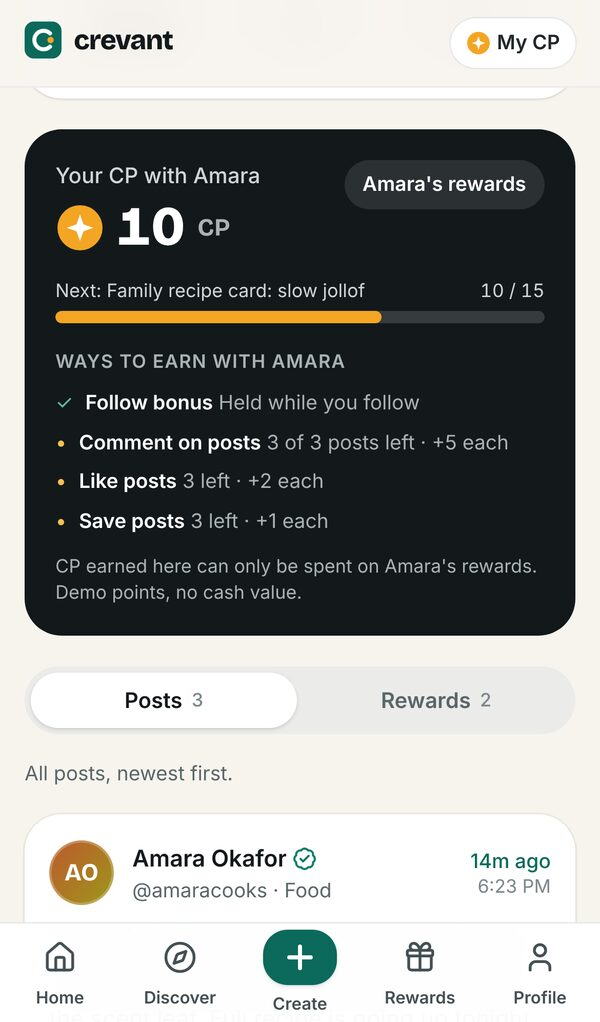
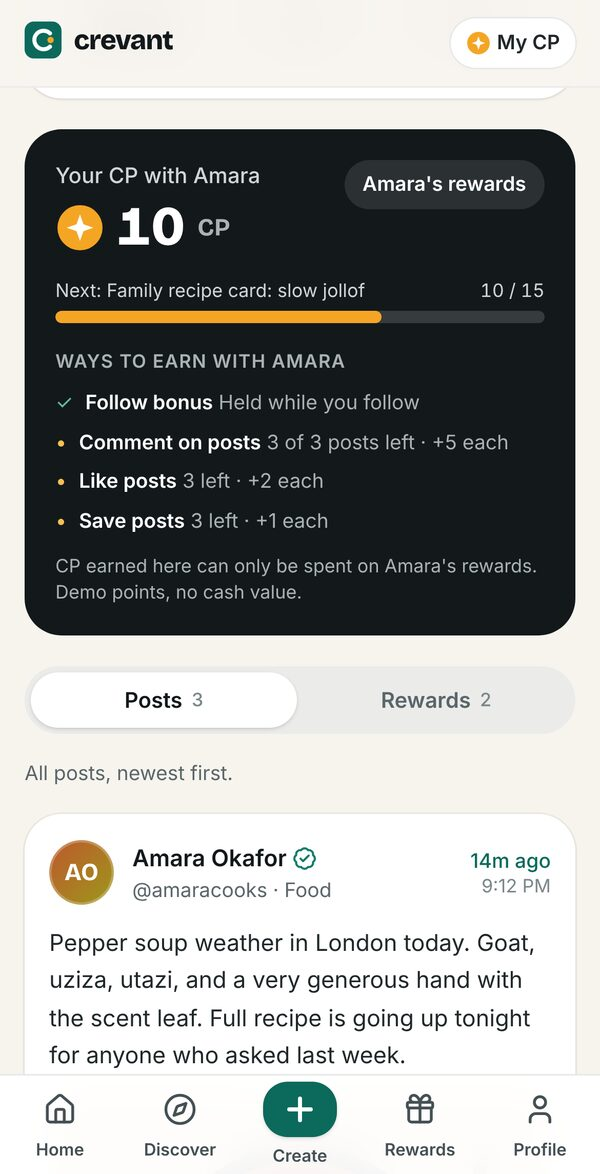
Landing page: realistic phone mockups for the tour screenshots
Replaces the plain dark frames with realistic, modern phones drawn in
code: a slim metal edge, side buttons, a black bezel, rounded screen
corners, a camera cut-out, a status bar and a home indicator area. Every
part scales with the phone's width (container units), so it looks the
same on desktop and mobile.

The screens are still genuine screenshots of the sample-data tour,
recaptured at a real phone's proportions: the app's 390 x 763 points
between a 47-point status bar and a 34-point home indicator area, so
the screen fills the device without stretching or cropping. Captions
still say "From the Crevant tour, with sample data."

The colour glow behind the hero phone is softened. No copy, section
structure or behaviour changes.

Claude-Session: https://claude.ai/code/session_01CUaEFqiBbRqT7dfbKvVRCe

diff --git a/src/public/landing/shared.tsx b/src/public/landing/shared.tsx
@@ -61,24 +61,56 @@ export function Section({
 
 export const cardShadow = 'shadow-[0_1px_2px_rgb(19_25_27/0.06),0_0_0_1px_rgb(19_25_27/0.05)]'
 
+// Genuine screenshots of the sample-data tour, captured at a real phone's
+// proportions (the 390 x 763 points between a 47-point status bar and a
+// 34-point home indicator area) by
+// scripts/landing/capture-tour-screens.cjs. statusBg matches the top of each
+// screen, so the status bar reads as part of the app.
 export const TOUR_SCREENS = {
   feed: {
     src: '/media/landing/tour-following-feed.jpg',
+    statusBg: '#fff7ea',
     alt: 'The Following feed in the Crevant sample tour: posts from three followed people, newest first, with a note saying there is no ranking.',
   },
   creator: {
     src: '/media/landing/tour-creator-page.jpg',
+    statusBg: '#f6f3ee',
     alt: "A creator page in the Crevant sample tour, showing 10 Connection Points with that creator and the ways to earn more. The card notes they are demo points with no cash value.",
   },
   rewards: {
     src: '/media/landing/tour-rewards.jpg',
+    statusBg: '#f7f4ef',
     alt: 'The rewards page in the Crevant sample tour: a reward from one creator, unlocked with points earned with that creator, marked as a simulated reward.',
   },
 } as const
 
+/** Status bar icons, sized relative to the phone's width. */
+function StatusIcons() {
+  return (
+    <span aria-hidden="true" className="flex items-center gap-[1.6cqw] text-ink-900">
+      <svg viewBox="0 0 18 12" className="h-[2.9cqw] w-auto" fill="currentColor">
+        <rect x="0" y="8" width="3" height="4" rx="0.8" />
+        <rect x="5" y="5.5" width="3" height="6.5" rx="0.8" />
+        <rect x="10" y="3" width="3" height="9" rx="0.8" />
+        <rect x="15" y="0" width="3" height="12" rx="0.8" />
+      </svg>
+      <svg viewBox="0 0 16 12" className="h-[2.9cqw] w-auto" fill="currentColor">
+        <path d="M8 2.4c2.3 0 4.4.9 6 2.4l1.3-1.4A10.4 10.4 0 0 0 8 .4C5.2.4 2.6 1.5.7 3.4L2 4.8a8.4 8.4 0 0 1 6-2.4Zm0 3.8c1.3 0 2.5.5 3.4 1.3l1.3-1.4A6.8 6.8 0 0 0 8 4.2c-1.8 0-3.4.7-4.7 1.9l1.3 1.4C5.5 6.7 6.7 6.2 8 6.2Zm0 3.6c.4 0 .8.2 1.1.4L8 11.6 6.9 10.2c.3-.2.7-.4 1.1-.4Z" />
+      </svg>
+      <svg viewBox="0 0 27 12" className="h-[2.9cqw] w-auto">
+        <rect x="0.5" y="0.5" width="22" height="11" rx="3" fill="none" stroke="currentColor" strokeOpacity="0.4" />
+        <rect x="2" y="2" width="17" height="8" rx="1.8" fill="currentColor" />
+        <path d="M24.5 4v4c.8-.3 1.5-1 1.5-2s-.7-1.7-1.5-2Z" fill="currentColor" fillOpacity="0.45" />
+      </svg>
+    </span>
+  )
+}
+
 /**
- * A genuine screenshot of the sample-data tour (captured by
- * scripts/landing/capture-tour-screens.cjs), always labelled as sample data.
+ * A genuine tour screenshot inside a realistic phone: slim metal frame, side
+ * buttons, rounded screen, camera cut-out, status bar and home indicator.
+ * Everything scales with the phone's width, so it looks the same on desktop
+ * and mobile. Always captioned as sample data.
  */
 export function TourScreenshot({
   screen,
@@ -93,17 +125,44 @@ export function TourScreenshot({
 }) {
   const s = TOUR_SCREENS[screen]
   return (
-    <figure data-screenshot={screen} className={clsx('mx-auto w-full max-w-[290px]', className)}>
-      <div className="rounded-[34px] bg-ink-900 p-2 shadow-[0_24px_60px_-24px_rgb(11_106_92/0.55),0_0_0_1px_rgb(19_25_27/0.08)]">
-        <img
-          src={s.src}
-          alt={s.alt}
-          width={600}
-          height={1022}
-          loading={priority ? 'eager' : 'lazy'}
-          decoding="async"
-          className="block h-auto w-full rounded-[27px]"
-        />
+    <figure data-screenshot={screen} className={clsx('mx-auto w-full max-w-[280px]', className)}>
+      <div data-device="phone" className="@container relative">
+        {/* Side buttons */}
+        <span aria-hidden="true" className="absolute -left-[0.9%] top-[17%] h-[4%] w-[1.2%] rounded-l-sm bg-[#3a3f44]" />
+        <span aria-hidden="true" className="absolute -left-[0.9%] top-[23%] h-[7.5%] w-[1.2%] rounded-l-sm bg-[#3a3f44]" />
+        <span aria-hidden="true" className="absolute -left-[0.9%] top-[32%] h-[7.5%] w-[1.2%] rounded-l-sm bg-[#3a3f44]" />
+        <span aria-hidden="true" className="absolute -right-[0.9%] top-[26%] h-[11%] w-[1.2%] rounded-r-sm bg-[#3a3f44]" />
+        {/* Frame: a thin metal edge around a black bezel */}
+        <div className="relative rounded-[15cqw] bg-gradient-to-b from-[#4a4f55] via-[#2a2e32] to-[#1c1f22] p-[0.9cqw] shadow-[0_18px_40px_-22px_rgb(19_25_27/0.45),0_2px_6px_-2px_rgb(19_25_27/0.2)]">
+          <div className="rounded-[14.2cqw] bg-[#0b0d0e] p-[2.6cqw]">
+            {/* Screen: exactly 390 x 844 */}
+            <div className="relative flex aspect-[390/844] flex-col overflow-hidden rounded-[11.6cqw] bg-white">
+              <div
+                aria-hidden="true"
+                className="flex h-[5.57%] flex-none items-center justify-between px-[7.5cqw] pt-[0.6cqw] text-[3.6cqw] font-semibold tracking-tight text-ink-900"
+                style={{ backgroundColor: s.statusBg }}
+              >
+                <span className="w-[16cqw]">9:41</span>
+                <StatusIcons />
+              </div>
+              {/* Camera cut-out */}
+              <span aria-hidden="true" className="absolute left-1/2 top-[1.25%] h-[3.3%] w-[29%] -translate-x-1/2 rounded-full bg-black" />
+              <img
+                src={s.src}
+                alt={s.alt}
+                width={600}
+                height={1174}
+                loading={priority ? 'eager' : 'lazy'}
+                decoding="async"
+                className="block min-h-0 w-full flex-1 object-cover object-top"
+              />
+              {/* Home indicator area, below the app's tab bar */}
+              <div aria-hidden="true" className="relative h-[4.03%] flex-none bg-white">
+                <span className="absolute bottom-[22%] left-1/2 h-[14%] w-[35%] -translate-x-1/2 rounded-full bg-ink-900/85" />
+              </div>
+            </div>
+          </div>
+        </div>
       </div>
       <figcaption className="mt-3 text-center text-[13px] leading-snug text-ink-500">
         <span className="font-semibold text-ink-700">{caption}</span>

diff --git a/src/public/LandingPage.tsx b/src/public/LandingPage.tsx
@@ -69,8 +69,8 @@ function Hero() {
           </p>
         </div>
         <div className="relative">
-          <div aria-hidden="true" className="absolute -inset-6 rounded-[48px] bg-gradient-to-br from-brand-100 via-paper to-spark-100 opacity-80" />
-          <TourScreenshot screen="feed" caption="Your Following feed, newest first" priority className="relative" />
+          <div aria-hidden="true" className="absolute -inset-6 rounded-[48px] bg-gradient-to-br from-brand-100 via-paper to-spark-100 opacity-50" />
+          <TourScreenshot screen="feed" caption="Your Following feed, newest first" priority className="relative max-w-[260px]" />
         </div>
       </div>
     </section>
@@ -245,7 +245,7 @@ function How() {
             </li>
           ))}
         </ol>
-        <TourScreenshot screen="creator" caption="Connection Points with one creator" className="max-w-[220px] lg:max-w-[250px]" />
+        <TourScreenshot screen="creator" caption="Connection Points with one creator" className="max-w-[200px] lg:max-w-[230px]" />
       </div>
 
       <div data-testid="fan-panel" className="mt-8 grid items-center gap-6 rounded-[32px] bg-spark-50 p-6 ring-1 ring-spark-200 sm:p-8 md:grid-cols-[1.4fr_0.6fr]">
@@ -266,7 +266,7 @@ function How() {
             Not every interaction earns points. Rewards are chosen by each creator and subject to availability, so not every fan will receive one.
           </p>
         </div>
-        <TourScreenshot screen="rewards" caption="Rewards a creator chooses to offer" className="max-w-[220px]" />
+        <TourScreenshot screen="rewards" caption="Rewards a creator chooses to offer" className="max-w-[200px]" />
       </div>
 
       <div data-testid="pilot-targets" className="mt-8 rounded-[28px] bg-white p-5 ring-1 ring-ink-100 sm:p-6">
